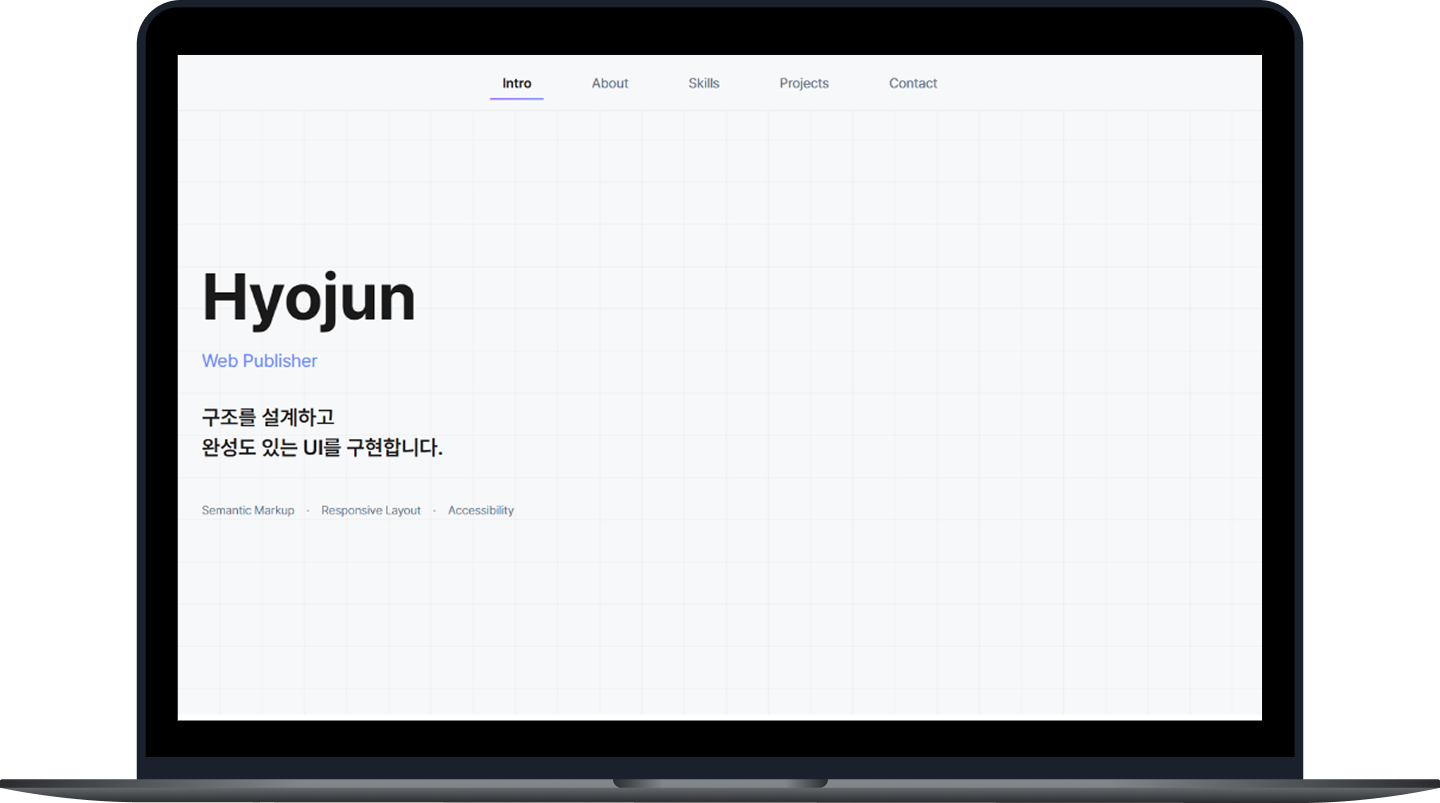
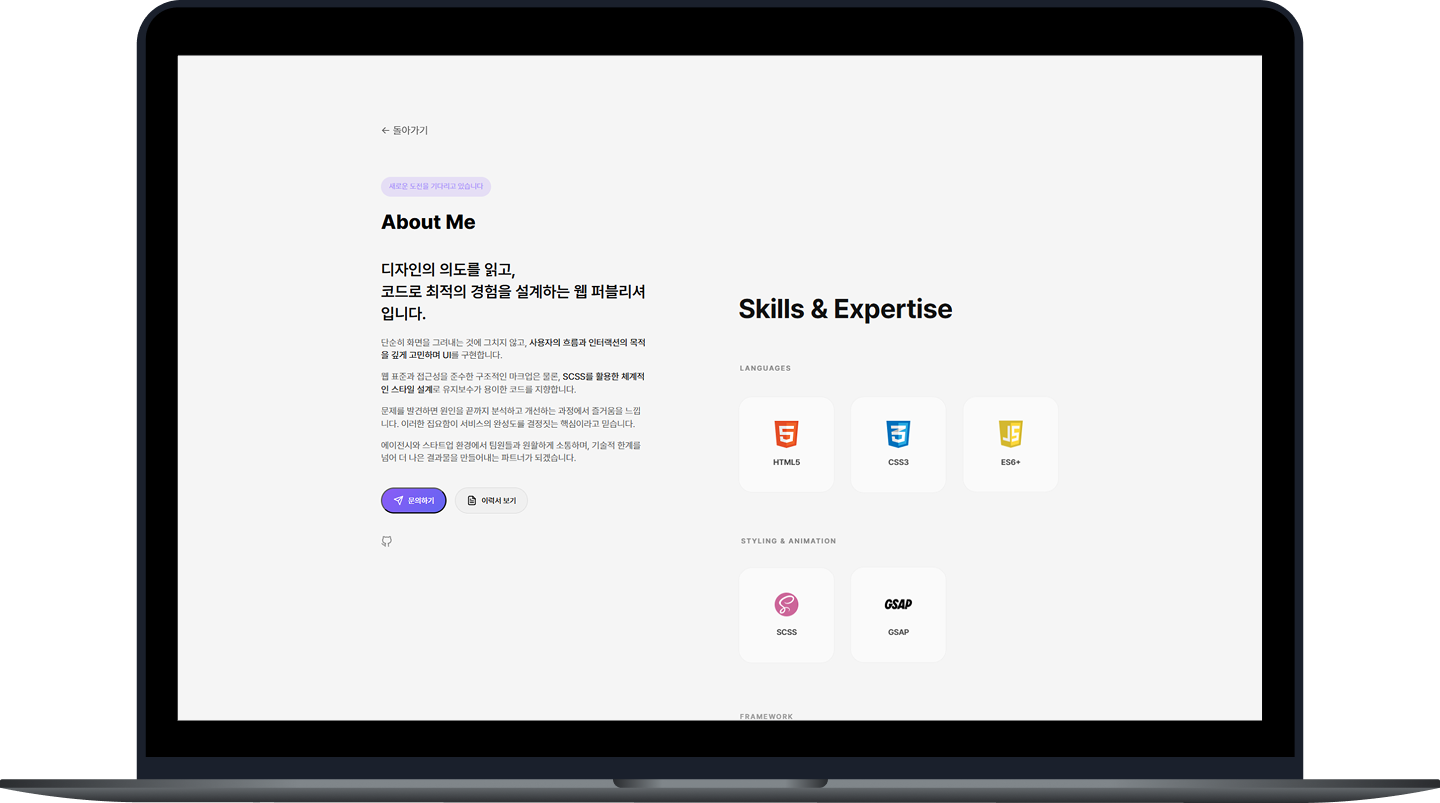
2026.04.06-3

diff --git a/src/pages/projects/Projects.scss b/src/pages/projects/Projects.scss
@@ -69,9 +69,6 @@
       }
     }
 
-    /* =========================
-       이미지 영역
-    ========================= */
     .project-left {
       position: relative;
       width: 100%;
@@ -86,56 +83,46 @@
         width: 100%;
         display: block;
         border-radius: v.$radius-lg;
-
         aspect-ratio: 16 / 10;
         object-fit: cover;
       }
 
-      /* 🔥 mobile 이미지 반응형 (핵심) */
       .mobile-img {
         position: absolute;
-
-        /* 📱 MOBILE */
-        bottom: -10px;
+        bottom: -5px;
         left: 10px;
         width: 90px;
         border-radius: v.$radius-md;
         transform: rotate(-4deg);
         transition: v.$transition-default;
 
-        /* 📱➡📲 TABLET */
         @include m.tablet {
-          bottom: -15px;
+          bottom: -10px;
           left: 20px;
-          width: 130px;
+          width: 180px;
           transform: rotate(-6deg);
         }
 
-        /* 💻 DESKTOP */
         @include m.desktop {
-          bottom: -40px;
+          bottom: -10px;
           left: 40px;
-          width: 200px;
+          width: 180px;
           transform: rotate(-8deg);
         }
       }
 
-      /* 🔥 reverse 대응 (left → right 완전 전환) */
       .project-item.reverse & {
         .mobile-img {
           left: auto;
 
-          /* 📱 MOBILE */
           right: 10px;
           transform: rotate(4deg);
 
-          /* TABLET */
           @include m.tablet {
             right: 20px;
             transform: rotate(6deg);
           }
 
-          /* DESKTOP */
           @include m.desktop {
             right: 40px;
             transform: rotate(8deg);
@@ -143,7 +130,6 @@
         }
       }
 
-      /* hover (데스크탑 전용) */
       @include m.desktop {
         &:hover .mobile-img {
           transform: rotate(0deg) scale(1.05);
@@ -151,9 +137,6 @@
       }
     }
 
-    /* =========================
-       텍스트 영역
-    ========================= */
     .project-right {
       width: 100%;
       position: relative;

diff --git a/src/pages/projects/ProjectsAll.scss b/src/pages/projects/ProjectsAll.scss
@@ -69,9 +69,6 @@
       }
     }
 
-    /* =========================
-       이미지 영역
-    ========================= */
     .project-left {
       position: relative;
       width: 100%;
@@ -86,56 +83,46 @@
         width: 100%;
         display: block;
         border-radius: v.$radius-lg;
-
         aspect-ratio: 16 / 10;
         object-fit: cover;
       }
 
-      /* 🔥 mobile 이미지 반응형 (핵심) */
       .mobile-img {
         position: absolute;
-
-        /* 📱 MOBILE */
-        bottom: -10px;
+        bottom: -5px;
         left: 10px;
         width: 90px;
         border-radius: v.$radius-md;
         transform: rotate(-4deg);
         transition: v.$transition-default;
 
-        /* 📱➡📲 TABLET */
         @include m.tablet {
-          bottom: -15px;
+          bottom: -10px;
           left: 20px;
-          width: 130px;
+          width: 180px;
           transform: rotate(-6deg);
         }
 
-        /* 💻 DESKTOP */
         @include m.desktop {
-          bottom: -40px;
+          bottom: -10px;
           left: 40px;
-          width: 200px;
+          width: 180px;
           transform: rotate(-8deg);
         }
       }
 
-      /* 🔥 reverse 대응 (left → right 완전 전환) */
       .project-item.reverse & {
         .mobile-img {
           left: auto;
 
-          /* 📱 MOBILE */
           right: 10px;
           transform: rotate(4deg);
 
-          /* TABLET */
           @include m.tablet {
             right: 20px;
             transform: rotate(6deg);
           }
 
-          /* DESKTOP */
           @include m.desktop {
             right: 40px;
             transform: rotate(8deg);
@@ -143,7 +130,6 @@
         }
       }
 
-      /* hover (데스크탑 전용) */
       @include m.desktop {
         &:hover .mobile-img {
           transform: rotate(0deg) scale(1.05);
@@ -151,9 +137,6 @@
       }
     }
 
-    /* =========================
-       텍스트 영역
-    ========================= */
     .project-right {
       width: 100%;
       position: relative;
